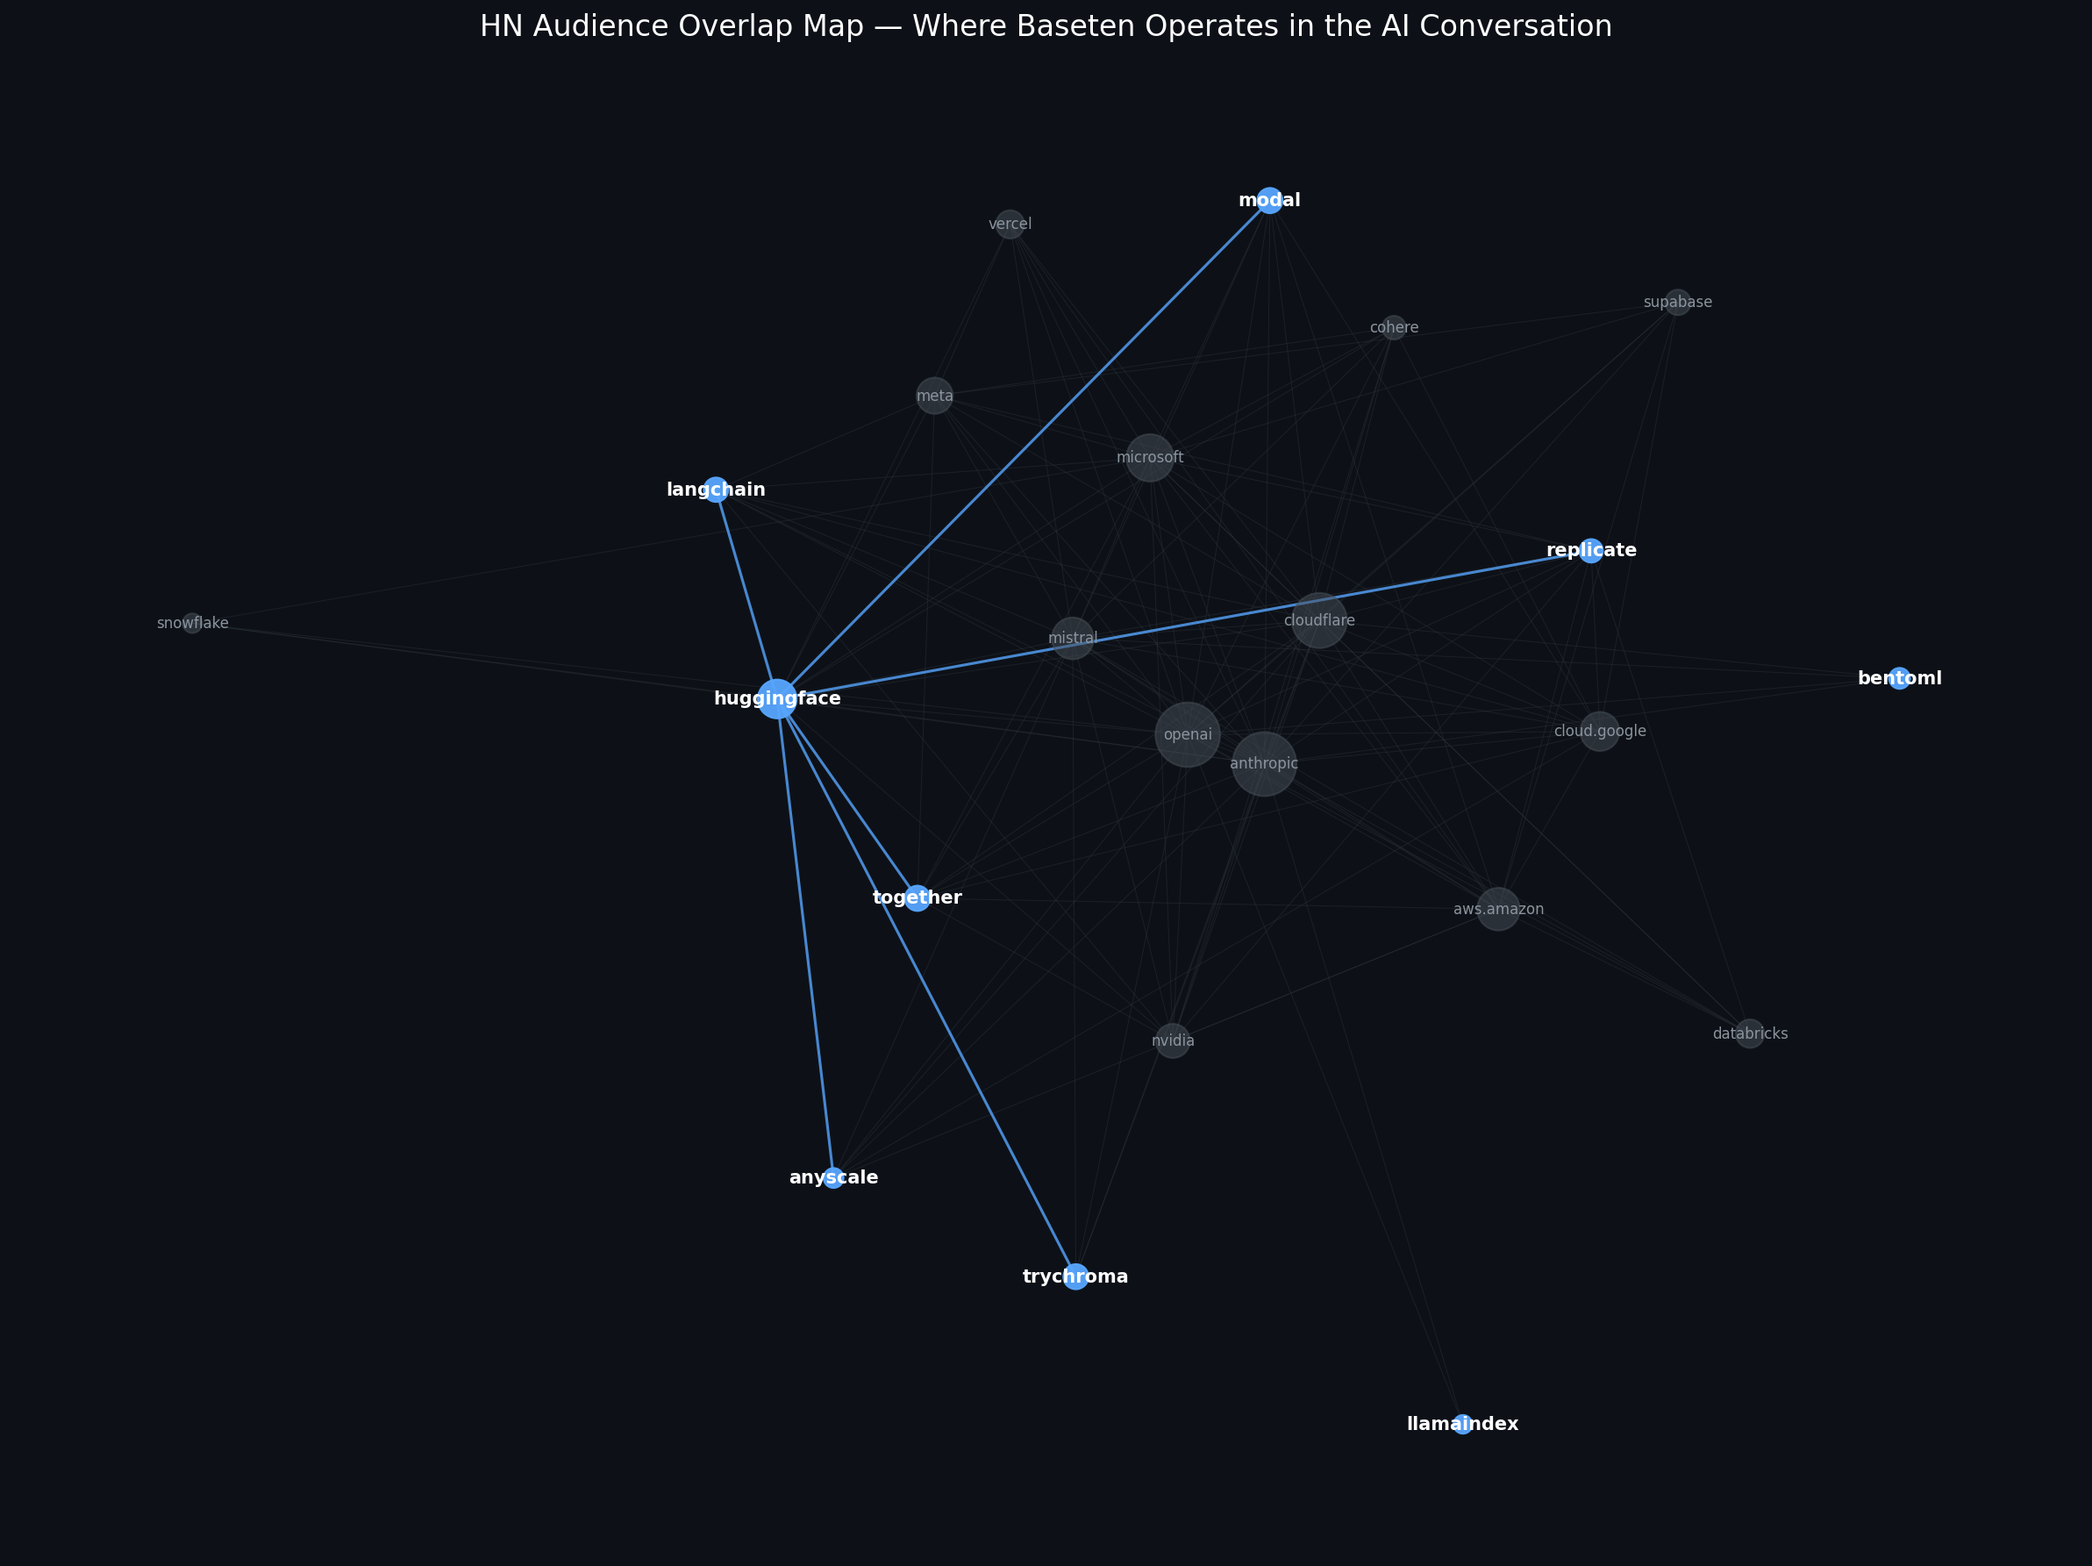
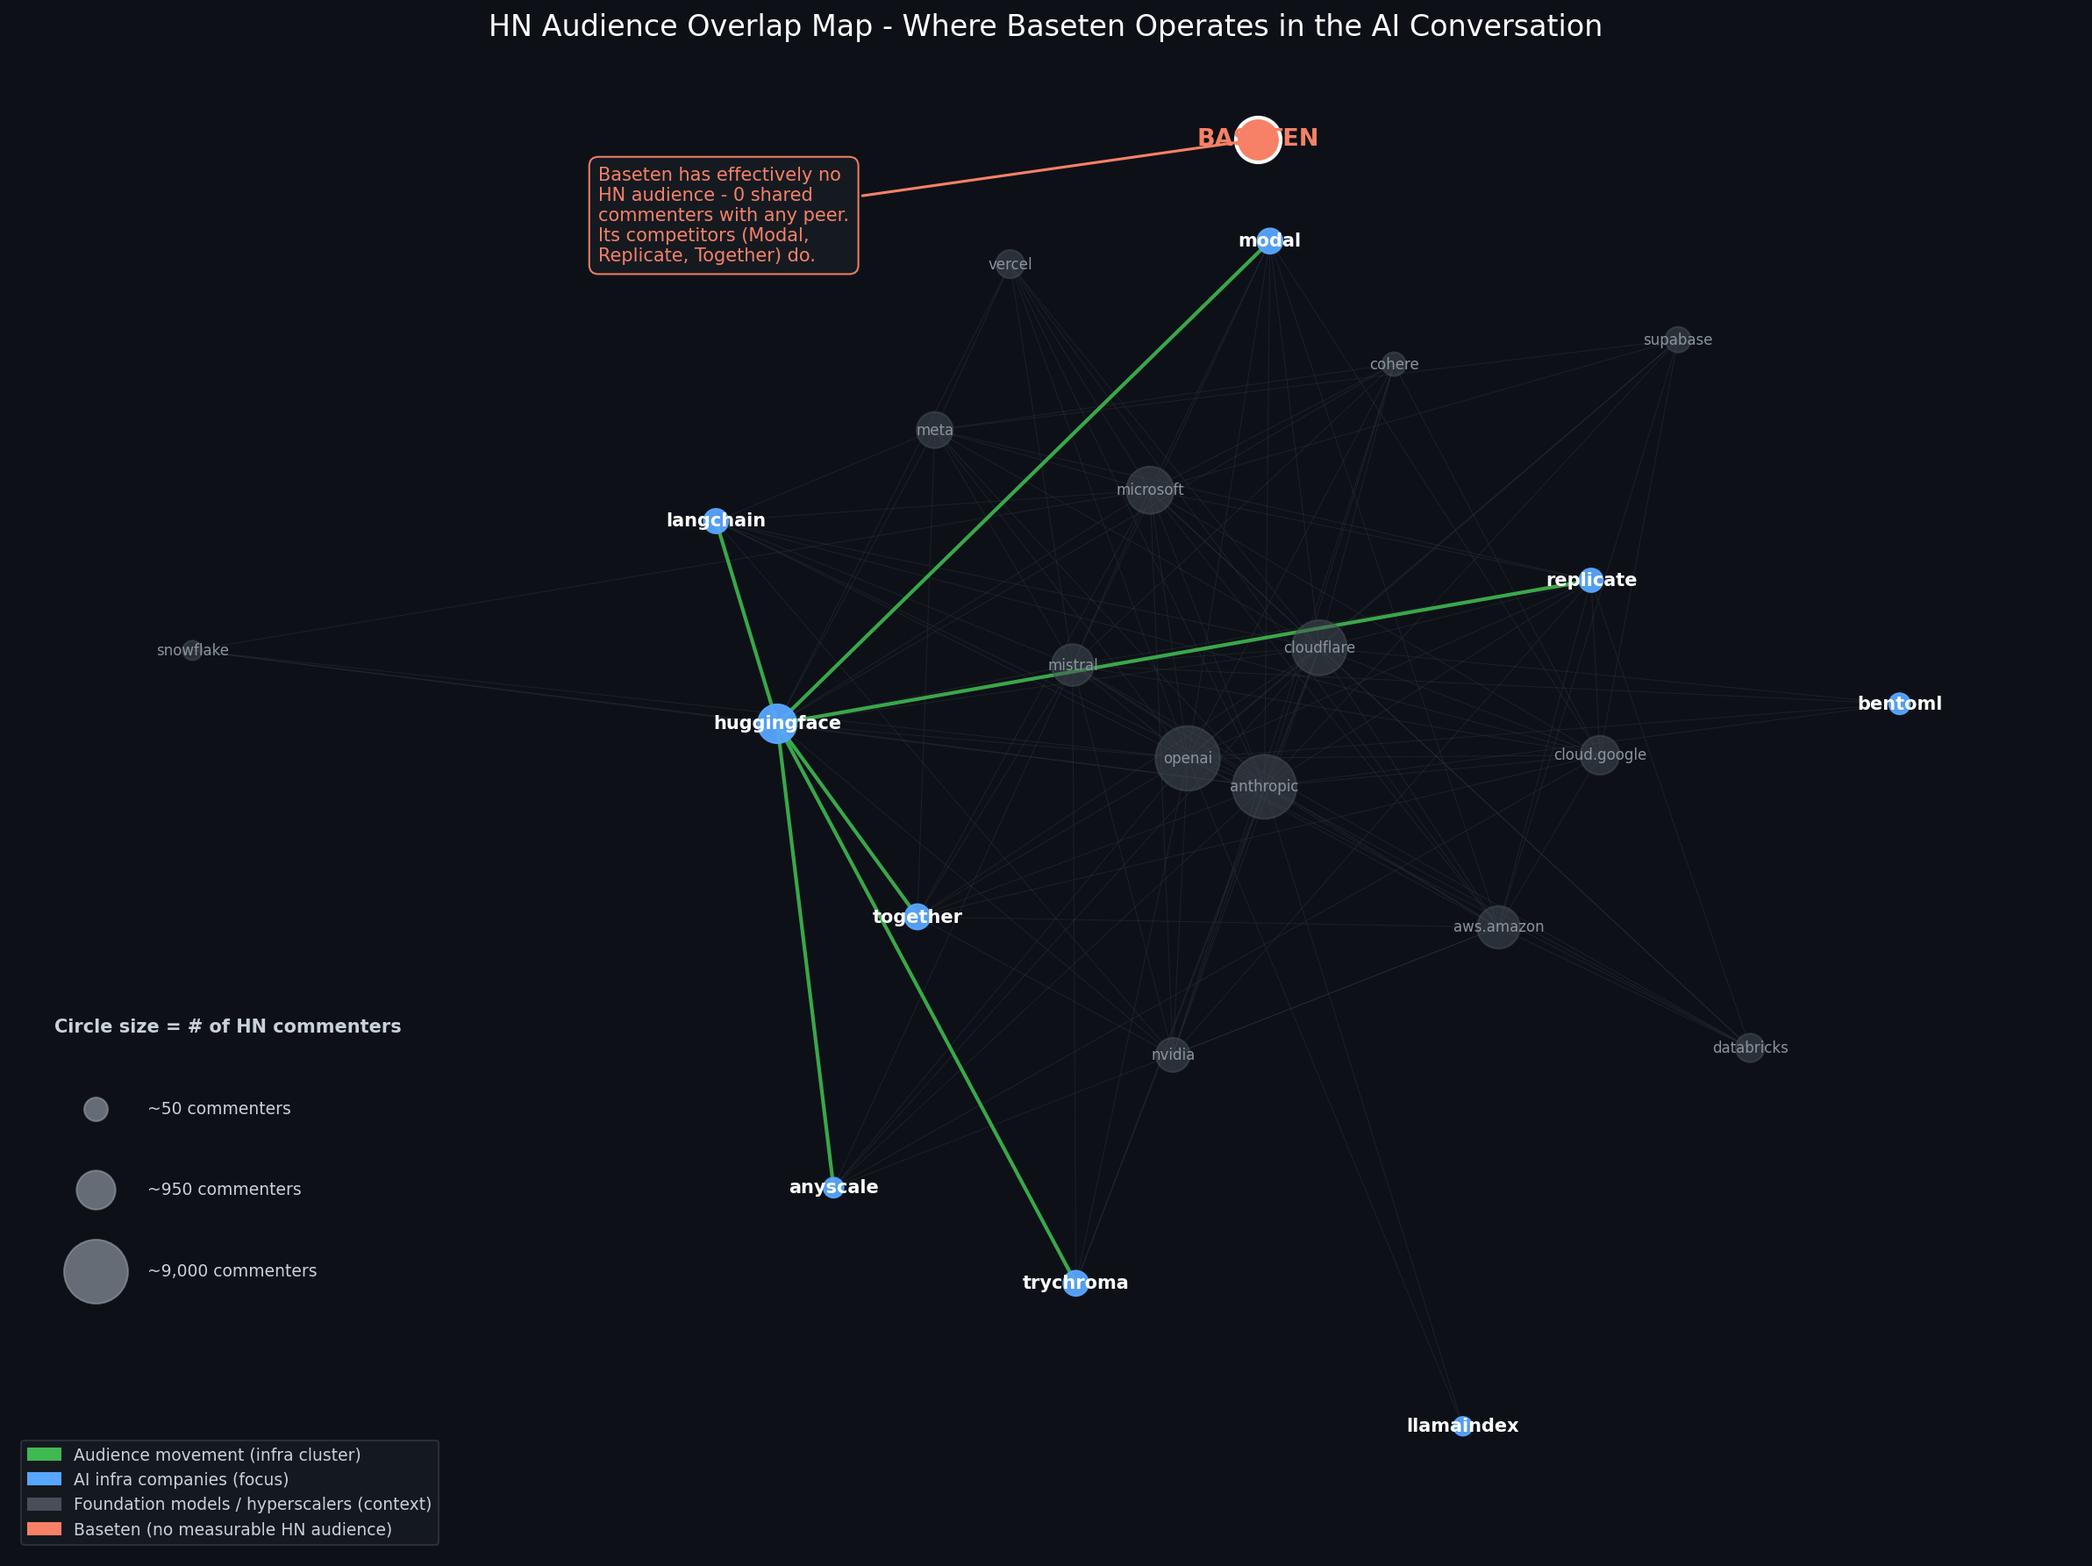
Add written analysis with embedded audience map

diff --git a/visualize_static.py b/visualize_static.py
@@ -1,10 +1,13 @@
 """
-HN Audience Map - Static Visualization (focus + context)
-Full network in gray background, Baseten cluster surfaced in color.
+HN Audience Map - Static Visualization v5
+- Baseten forced onto map (the key finding)
+- Green edges showing audience movement
+- Combined legend (size key + color code) in bottom-LEFT corner
 """
 
 import json
 import matplotlib.pyplot as plt
+import matplotlib.patches as mpatches
 import networkx as nx
 from pathlib import Path
 
@@ -12,7 +15,6 @@ DATA_DIR = Path("data")
 OVERLAP_FILE = DATA_DIR / "overlap_matrix.json"
 OUTPUT_FILE = "hn_audience_map.png"
 
-# Domains in Baseten's competitive cluster (Ring 1 + 2) — surfaced in color
 FOCUS_DOMAINS = {
     "baseten.com", "modal.com", "replicate.com", "runpod.io",
     "together.ai", "anyscale.com", "huggingface.co", "fireworks.ai",
@@ -20,8 +22,13 @@ FOCUS_DOMAINS = {
     "weaviate.io", "trychroma.com", "mlflow.org", "bentoml.com", "ray.io",
 }
 
-# Use overlap_coefficient for edges (better when domain sizes vary widely)
-MIN_OVERLAP_COEF = 0.10  # only draw edges above this threshold
+MIN_OVERLAP_COEF = 0.10
+
+
+def short_name(domain):
+    for suffix in (".com", ".ai", ".io", ".org", ".co"):
+        domain = domain.replace(suffix, "")
+    return domain
 
 
 def main():
@@ -29,106 +36,140 @@ def main():
         data = json.load(f)
 
     G = nx.Graph()
-
-    # Add nodes with their commenter count as size attribute
     for node in data["nodes"]:
         G.add_node(node["domain"], size=node["commenter_count"])
 
-    # Add edges above threshold
     for edge in data["edges"]:
         if edge["overlap_coefficient"] >= MIN_OVERLAP_COEF:
-            G.add_edge(
-                edge["source"],
-                edge["target"],
-                weight=edge["overlap_coefficient"],
-                shared=edge["shared_commenters"],
-            )
+            G.add_edge(edge["source"], edge["target"],
+                       weight=edge["overlap_coefficient"])
 
-    # Remove isolated nodes (no edges above threshold)
-    G.remove_nodes_from(list(nx.isolates(G)))
+    # Remove isolated nodes EXCEPT baseten
+    isolates = [n for n in nx.isolates(G) if n != "baseten.com"]
+    G.remove_nodes_from(isolates)
 
-    # Layout
-    pos = nx.spring_layout(G, k=0.6, iterations=50, seed=42)
+    if "baseten.com" not in G.nodes():
+        G.add_node("baseten.com", size=1)
+
+    # Layout for connected nodes only
+    G_connected = G.copy()
+    if "baseten.com" in G_connected.nodes() and G_connected.degree("baseten.com") == 0:
+        G_connected.remove_node("baseten.com")
+    pos = nx.spring_layout(G_connected, k=0.6, iterations=50, seed=42)
+
+    # Manually place baseten
+    pos["baseten.com"] = (0.05, 0.62)
 
     fig, ax = plt.subplots(figsize=(16, 12))
     ax.set_facecolor("#0d1117")
     fig.patch.set_facecolor("#0d1117")
 
-    # Split nodes into focus vs context
-    focus_nodes = [n for n in G.nodes() if n in FOCUS_DOMAINS]
+    focus_nodes = [n for n in G.nodes() if n in FOCUS_DOMAINS and n != "baseten.com"]
     context_nodes = [n for n in G.nodes() if n not in FOCUS_DOMAINS]
 
-    # Node sizes scaled by commenter count
     def node_size(n):
         return 80 + (G.nodes[n]["size"] ** 0.5) * 12
 
-    # Draw context edges (faint)
-    context_edges = [
-        (u, v) for u, v in G.edges()
-        if u not in FOCUS_DOMAINS or v not in FOCUS_DOMAINS
-    ]
-    nx.draw_networkx_edges(
-        G, pos, edgelist=context_edges,
-        edge_color="#30363d", width=0.5, alpha=0.4, ax=ax,
-    )
+    # Context edges (faint gray)
+    context_edges = [(u, v) for u, v in G.edges()
+                     if u not in FOCUS_DOMAINS or v not in FOCUS_DOMAINS]
+    nx.draw_networkx_edges(G, pos, edgelist=context_edges,
+                           edge_color="#30363d", width=0.5, alpha=0.4, ax=ax)
 
-    # Draw focus edges (bright)
-    focus_edges = [
-        (u, v) for u, v in G.edges()
-        if u in FOCUS_DOMAINS and v in FOCUS_DOMAINS
-    ]
-    nx.draw_networkx_edges(
-        G, pos, edgelist=focus_edges,
-        edge_color="#58a6ff", width=1.5, alpha=0.8, ax=ax,
-    )
+    # Focus edges (bright green = audience movement)
+    focus_edges = [(u, v) for u, v in G.edges()
+                   if u in FOCUS_DOMAINS and v in FOCUS_DOMAINS]
+    nx.draw_networkx_edges(G, pos, edgelist=focus_edges,
+                           edge_color="#3fb950", width=2.0, alpha=0.9, ax=ax)
 
-    # Draw context nodes (grayed out)
-    nx.draw_networkx_nodes(
-        G, pos, nodelist=context_nodes,
-        node_size=[node_size(n) for n in context_nodes],
-        node_color="#484f58", alpha=0.5, ax=ax,
-    )
+    # Context nodes (gray)
+    nx.draw_networkx_nodes(G, pos, nodelist=context_nodes,
+                           node_size=[node_size(n) for n in context_nodes],
+                           node_color="#484f58", alpha=0.5, ax=ax)
 
-    # Draw focus nodes (colored)
-    nx.draw_networkx_nodes(
-        G, pos, nodelist=focus_nodes,
-        node_size=[node_size(n) for n in focus_nodes],
-        node_color="#58a6ff", alpha=0.95, ax=ax,
-    )
+    # Focus nodes (blue)
+    nx.draw_networkx_nodes(G, pos, nodelist=focus_nodes,
+                           node_size=[node_size(n) for n in focus_nodes],
+                           node_color="#58a6ff", alpha=0.95, ax=ax)
 
-    # Highlight Baseten specifically
-    if "baseten.com" in G.nodes():
-        nx.draw_networkx_nodes(
-            G, pos, nodelist=["baseten.com"],
-            node_size=[node_size("baseten.com") + 200],
-            node_color="#f78166", alpha=1.0, ax=ax,
-        )
+    # Baseten (orange, ringed)
+    nx.draw_networkx_nodes(G, pos, nodelist=["baseten.com"],
+                           node_size=[600],
+                           node_color="#f78166", alpha=1.0,
+                           edgecolors="#ffffff", linewidths=2, ax=ax)
 
-    # Labels — focus nodes get bright labels, context gets faint
-    focus_labels = {n: n.replace(".com", "").replace(".ai", "").replace(".io", "").replace(".org", "").replace(".co", "") for n in focus_nodes}
-    context_labels = {n: n.replace(".com", "").replace(".ai", "").replace(".io", "").replace(".org", "").replace(".co", "") for n in context_nodes}
+    # Labels
+    context_labels = {n: short_name(n) for n in context_nodes}
+    focus_labels = {n: short_name(n) for n in focus_nodes}
+    nx.draw_networkx_labels(G, pos, labels=context_labels,
+                            font_size=8, font_color="#8b949e", ax=ax)
+    nx.draw_networkx_labels(G, pos, labels=focus_labels,
+                            font_size=10, font_color="#ffffff",
+                            font_weight="bold", ax=ax)
+    nx.draw_networkx_labels(G, pos, labels={"baseten.com": "BASETEN"},
+                            font_size=13, font_color="#f78166",
+                            font_weight="bold", ax=ax)
 
-    nx.draw_networkx_labels(
-        G, pos, labels=context_labels,
-        font_size=8, font_color="#8b949e", ax=ax,
-    )
-    nx.draw_networkx_labels(
-        G, pos, labels=focus_labels,
-        font_size=10, font_color="#ffffff", font_weight="bold", ax=ax,
+    # Annotation callout pointing at Baseten
+    bx, by = pos["baseten.com"]
+    ax.annotate(
+        "Baseten has effectively no\nHN audience - 0 shared\ncommenters with any peer.\nIts competitors (Modal,\nReplicate, Together) do.",
+        xy=(bx, by), xytext=(bx - 0.65, by - 0.08),
+        fontsize=10, color="#f78166",
+        ha="left", va="center",
+        bbox=dict(boxstyle="round,pad=0.5", facecolor="#161b22",
+                  edgecolor="#f78166", alpha=0.95),
+        arrowprops=dict(arrowstyle="->", color="#f78166", lw=1.5),
     )
 
     ax.set_title(
-        "HN Audience Overlap Map — Where Baseten Operates in the AI Conversation",
+        "HN Audience Overlap Map - Where Baseten Operates in the AI Conversation",
         color="#ffffff", fontsize=16, pad=20,
     )
-    ax.axis("off")
 
+    # ---- Combined legend in bottom-LEFT (size key on top, color code below) ----
+    circle_x = 0.04    # x position of reference circles (left side)
+    label_x = 0.065    # x position of size labels (just right of circles)
+
+    # Size key header
+    size_top = 0.30
+    size_step = 0.055
+    ax.text(circle_x - 0.02, size_top + size_step,
+            "Circle size = # of HN commenters",
+            transform=ax.transAxes, color="#c9d1d9", fontsize=10,
+            fontweight="bold", ha="left", va="center")
+
+    size_refs = [(50, "~50 commenters"),
+                 (950, "~950 commenters"),
+                 (9000, "~9,000 commenters")]
+    for i, (count, label) in enumerate(size_refs):
+        y = size_top - i * size_step
+        marker_size = 80 + (count ** 0.5) * 12
+        ax.scatter([circle_x], [y], s=marker_size,
+                   color="#8b949e", alpha=0.7,
+                   transform=ax.transAxes, clip_on=False)
+        ax.text(label_x, y, label,
+                transform=ax.transAxes, color="#c9d1d9",
+                fontsize=9, va="center", ha="left")
+
+    # Color legend below the size key (bottom-left)
+    legend_elements = [
+        mpatches.Patch(color="#3fb950", label="Audience movement (infra cluster)"),
+        mpatches.Patch(color="#58a6ff", label="AI infra companies (focus)"),
+        mpatches.Patch(color="#484f58", label="Foundation models / hyperscalers (context)"),
+        mpatches.Patch(color="#f78166", label="Baseten (no measurable HN audience)"),
+    ]
+    ax.legend(handles=legend_elements,
+              loc="lower left",
+              bbox_to_anchor=(0.0, 0.0),
+              facecolor="#161b22", edgecolor="#30363d",
+              labelcolor="#c9d1d9", fontsize=9)
+
+    ax.axis("off")
     plt.tight_layout()
     plt.savefig(OUTPUT_FILE, dpi=150, facecolor="#0d1117", bbox_inches="tight")
-    print(f"Saved visualization to {OUTPUT_FILE}")
-    print(f"Nodes drawn: {G.number_of_nodes()}")
-    print(f"Edges drawn: {G.number_of_edges()}")
-    print(f"Focus nodes: {len(focus_nodes)}, Context nodes: {len(context_nodes)}")
+    print(f"Saved to {OUTPUT_FILE}")
+    print(f"Nodes: {G.number_of_nodes()}, Edges: {G.number_of_edges()}")
 
 
 if __name__ == "__main__":

diff --git a/ANALYSIS.md b/ANALYSIS.md
@@ -1,0 +1,37 @@
+# Where Does the AI Infrastructure Buyer Actually Live? A Hacker News Audience Map
+
+![HN Audience Overlap Map](hn_audience_map.png)
+
+Baseten's job description mentioned Reddit as a channel they're exploring to reach their audience. I wanted to understand that opportunity before discussing it in the interviews, so I built a Reddit audience overlap analysis. Unfortunately, Reddit has updated its API restrictions, which made it impossible without enterprise access, so I pivoted to the closest high-signal channel for a technical/infra focused audience, which is how I landed at Hacker News.
+
+I pulled 12 months (tried 6 months, but it was not enough) of HN stories across 31 companies in the AI/data stack. The group is made up of Baseten, its direct competitors, the foundation-model providers, and the broader infra layer, then mapped which companies share commenters to get as close as possible to the idea of "subreddit traffic flow". If the same people show up discussing two companies, those companies are competing for (or sharing) the same attention, which, depending on the channel, is how I would start building one of the targeting audiences.
+
+## What I found
+
+**HuggingFace is the gravitational center of the AI-infra audience.** Nearly every infra company that has an HN presence, such as Modal, Replicate, Together, and LangChain, connects through it. If you're trying to reach this audience, HuggingFace adjacent conversation is the room they're already in.
+
+**The foundation-model giants (OpenAI, Anthropic, Microsoft, AWS) dominate raw volume but cluster separately.** Around 19,700 unique commenters total, and OpenAI + Anthropic alone account for the bulk. That's the "AI conversation," but it's a different room than the infra-buyer conversation.
+
+**Baseten doesn't appear on its own audience map.** One story, zero comments, no measurable overlap with any peer in 12 months. Its closest competitors, Modal, Replicate, and Together.AI, each have real, active HN communities. This is an opportunity for brand expansion and engagement.
+
+## Why it matters
+
+As AI adoption matures and intelligence becomes native to products rather than a bolt-on API call, the inference layer migrates (as Tuhin mentioned throughout his interviews) from "closed intelligence" (renting someone else's hosted model) to "owned intelligence" (running your own on dedicated infra). That audience will need to realize the capabilities or availability of Baseten beforehand or during research. The people having technical infrastructure conversations on HN today are the buyers whose needs hyperscale as that shift accelerates.
+
+## The AI-search angle (AEO / GEO)
+
+There's a second reason this matters more now than it would have a few years ago. HN discussions are represented in the data that trains LLMs and in the sources that answer engines cite. Showing up on HN isn't just about reaching people; it's about being present in the inputs that determine which names AI tools recommend. While outside a paid media manager role, this would be low-hanging fruit that would support paid media efforts with social proof.
+
+## What I'd do about it
+
+1. **Show up where the audience already is.** The infra cluster routes conversations through HuggingFace, Modal, and Replicate, not Baseten's own. Earned presence (technical content, Show HN launches, founder/engineer participation) in that adjacency is the cheapest and easiest way in.
+2. **Treat HN as a channel-fit test, not a guarantee.** Modal posts ~2x/month and gets traction. Cadence and content type matter more than channel choice; the audience is there, but the consistent presence isn't.
+3. **Map before you buy.** This same overlap method works as a pre-spend audit for any channel (Reddit, paid social interest targeting, podcast/newsletter sponsorships), to find where the buyer already clusters before allocating budget.
+
+## Things to note
+
+Shared commenters approximate shared audience, not causal influence (and some of them are probably the companies themselves). The 12 month window matters, as a 6 month cut missed slower posting companies entirely. And HN skews toward a specific technical persona; it's one signal, not the whole market. This is a directional map, not an attribution model.
+
+---
+
+*Built with Python (HN Algolia API + NetworkX). Code and methodology in this repo — fork it and swap in any company to map a different market.*
